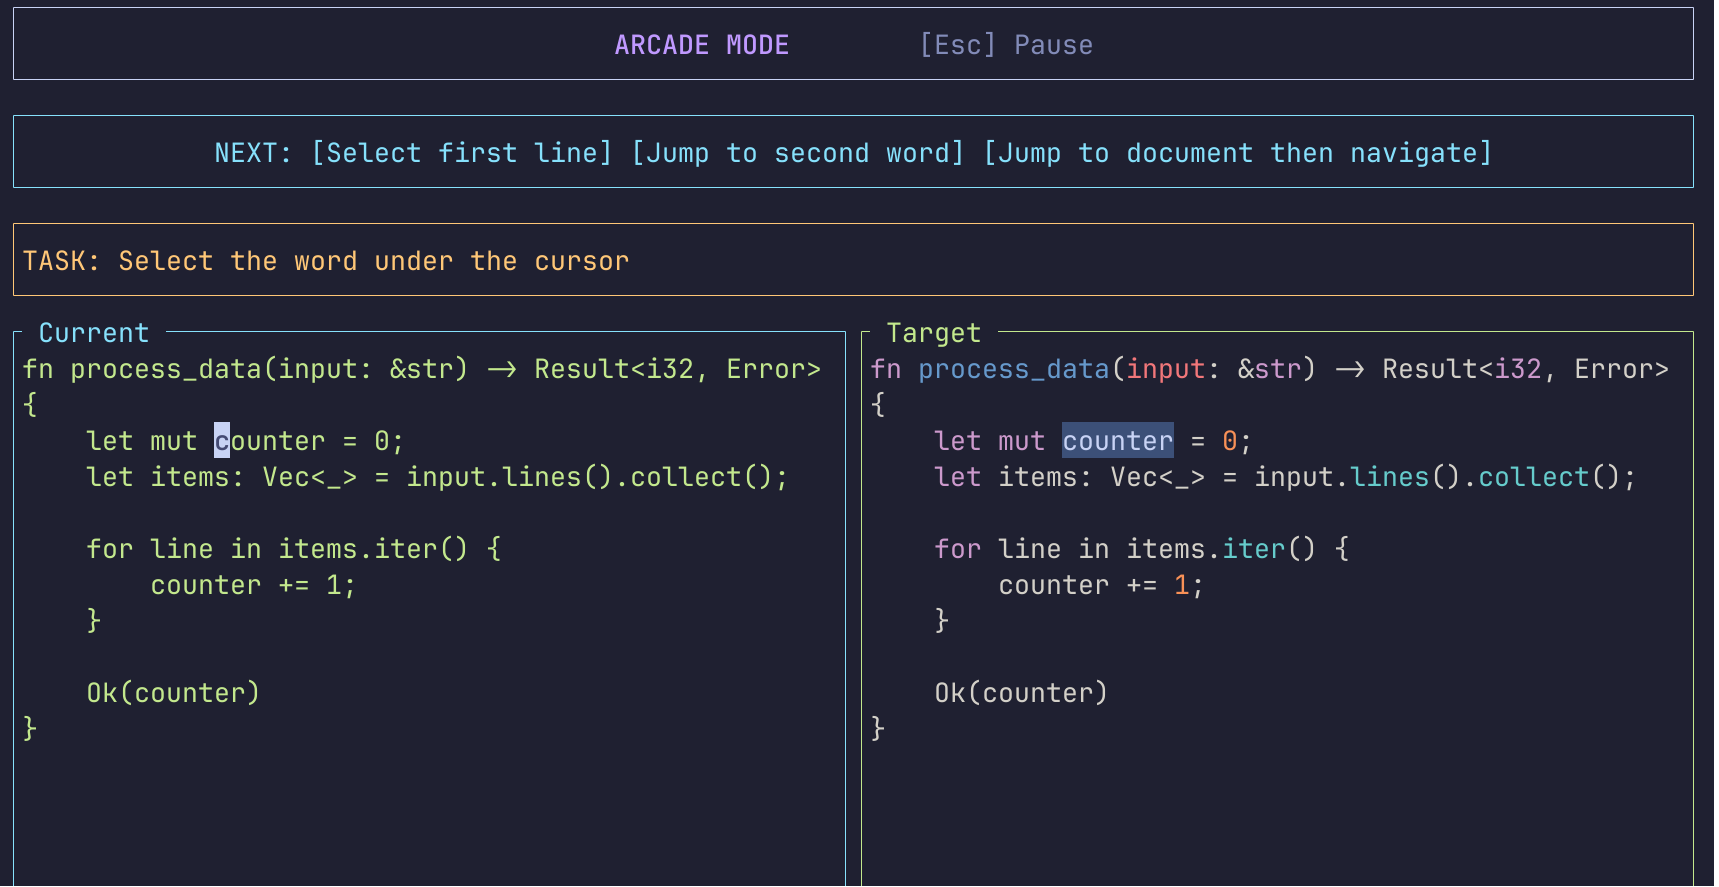
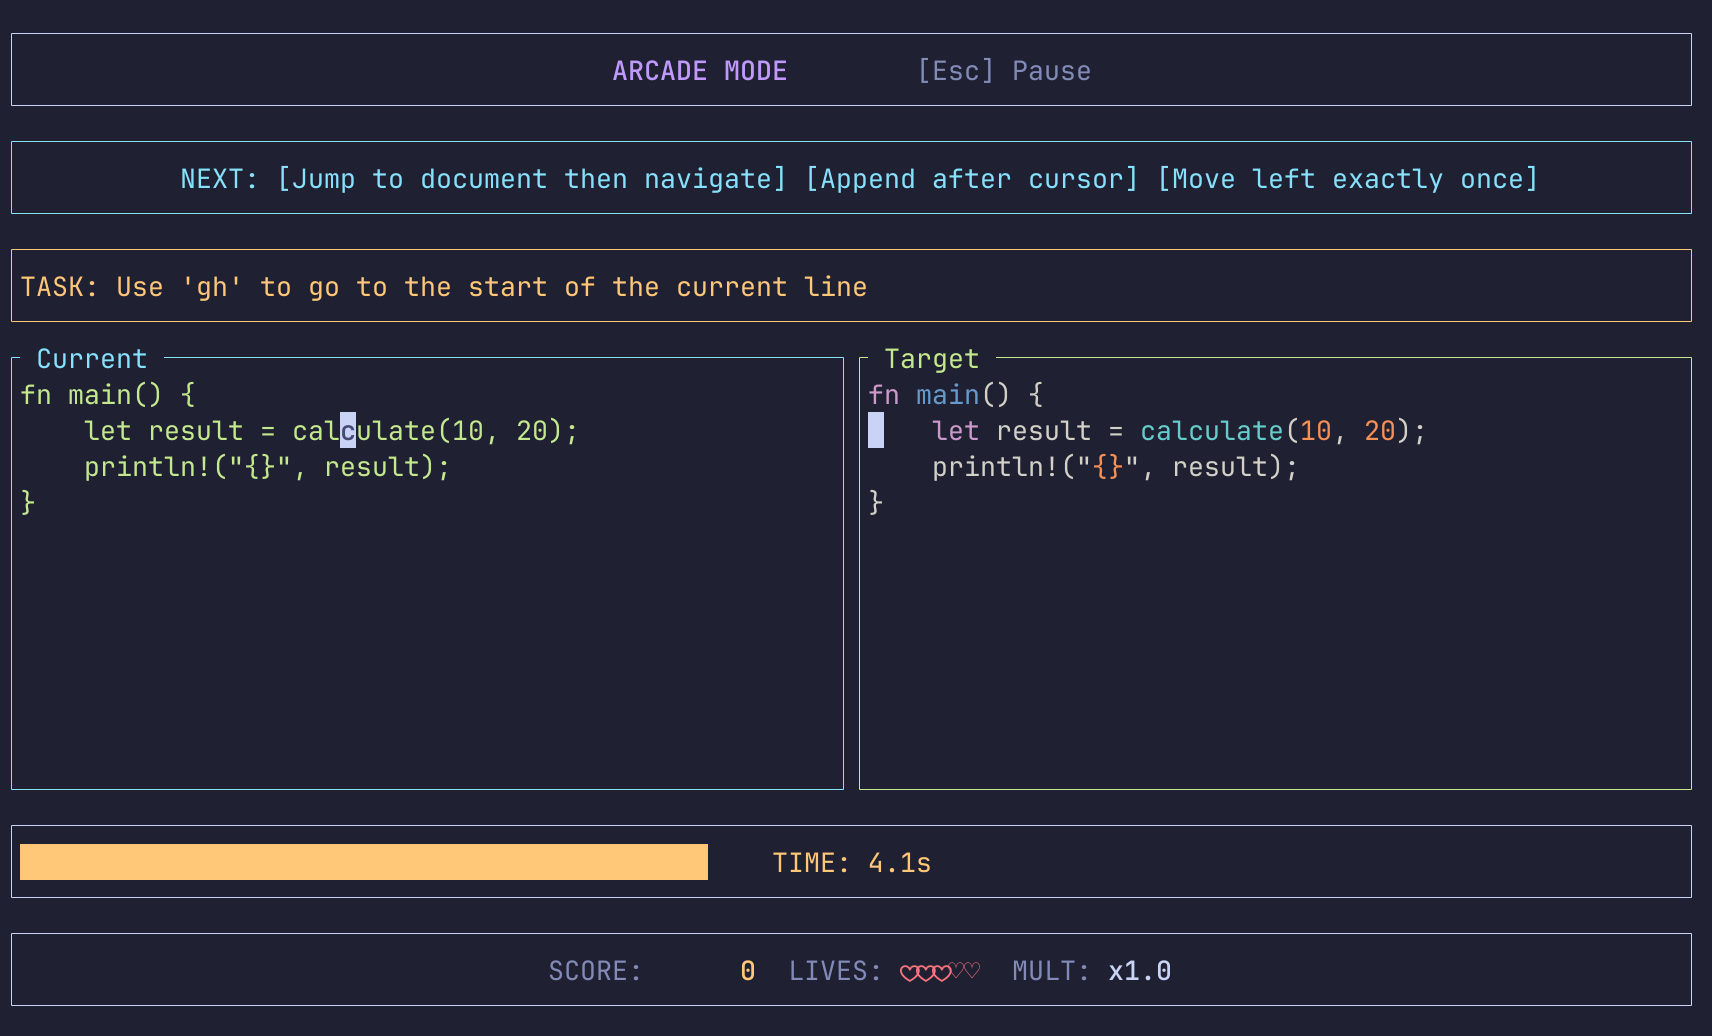
release: prepare v0.5.4 (#121)
- FSRS-based arcade scenario selection
- Real FSRS data in statistics screen
- Review session UX improvements
- Navigation shortcuts (m/Esc, r for review)
- Mastery level-up notifications
- Codebase architecture cleanup
- Updated screenshots (training-mode, statistics)

diff --git a/README.md b/README.md
@@ -11,7 +11,7 @@
 
 Stop learning commands in isolation. Train real development workflows with FSRS-powered spaced repetition (20-30% faster mastery), daily quests, XP progression, and anti-farming mechanics that ensure genuine skill development.
 
-<img src="assets/main-menu.png" width="600" alt="Main Menu">
+<img src="assets/training-mode.png" width="600" alt="Training Mode">
 
 > [!IMPORTANT]
 > **100% Offline & Privacy-First** — No internet required, no telemetry, no cloud sync. All data stays on your machine in `~/.config/helix-trainer/`
@@ -29,10 +29,13 @@ Stop learning commands in isolation. Train real development workflows with FSRS-
 
 <img src="assets/profile.png" width="600" alt="Player Profile">
 
+<img src="assets/statistics.png" width="600" alt="Statistics">
+
 ### Mini-Games Mode
 
 <img src="assets/arcade-mode.png" width="600" alt="Arcade Mode">
 
+- **FSRS-Powered Selection** — Prioritizes scenarios with commands you need to practice
 - **Arcade Training** — 60-second timed sessions with automatic scenario progression
 - **Streak Multiplier** — Build combos up to 5x for consecutive completions
 - **Lives System** — Start with 3 lives, earn bonus lives at score milestones
@@ -203,7 +206,7 @@ Duolingo-proven mechanics:
 ## Current Status
 
 > [!NOTE]
-> **Active Development**: Phase 2.2 complete! 136 scenarios with syntax highlighting, 1239+ passing tests, zero clippy warnings.
+> **Active Development**: Phase 2.2 complete! 136 scenarios with syntax highlighting, 1268 passing tests, 86% coverage.
 
 ### Completed
 
@@ -214,6 +217,7 @@ Duolingo-proven mechanics:
 | **Phase 2.1** | v0.4.1 | Arcade mode (60s sessions, lives, streak multiplier, XP integration) |
 | **Phase 4** | v0.5.0 | Typestate input system: surround commands (ms/mr/md), text objects (ma/mi) |
 | **Phase 2.2** | v0.5.3 | Adaptive difficulty, syntax highlighting, 136 scenarios with realistic Rust code |
+| **FSRS UX** | v0.5.4 | FSRS-based arcade selection, real statistics, review UX, codebase cleanup |
 
 ### 🔄 Phase 2.3: Mini-Games Polish (Planned)
 
@@ -323,6 +327,7 @@ Yes, Helix-specific. While many commands have similar names, Helix uses a differ
 | Phase 2.1 | ✅ | Mini-Games mode (arcade, lives, streaks) |
 | Typestate | ✅ | Input expansion (surround ms/mr/md, text objects ma/mi) |
 | Phase 2.2 | ✅ | Adaptive difficulty, syntax highlighting, realistic scenarios |
+| FSRS UX | ✅ | FSRS-based arcade, real statistics, review improvements |
 | Phase 2.3 | 📋 | Mini-Games polish (sound, leaderboards) |
 | Phase 3 | 📋 | Workflow simulator (LSP, git, multi-file) |
 | Phase 4 | 💡 | Network effects (multiplayer, scenarios marketplace) |

diff --git a/CHANGELOG.md b/CHANGELOG.md
@@ -7,6 +7,49 @@ and this project adheres to [Semantic Versioning](https://semver.org/spec/v2.0.0
 
 ## [Unreleased]
 
+## [0.5.4] - 2026-01-10
+
+### Added
+
+- **FSRS-based Arcade Mode** — Intelligent scenario selection prioritizes commands needing practice:
+  - Overdue commands increase scenario urgency
+  - Weak commands (low success rate) appear more often
+  - Novel commands get moderate priority for discovery
+  - Weighted random selection maintains variety
+
+- **Statistics Screen Improvements** — Real FSRS data integration:
+  - Command Mastery Distribution with progress bars
+  - Review Status showing due reviews and success rates
+  - Commands Needing Practice section (top 5 weak commands)
+  - Scenario Mastery distribution (Learning/Proficient/Mastered)
+
+- **Profile Screen Learning Progress** — New section showing FSRS learning metrics
+
+- **Review Session UX** — Improved review experience:
+  - Command descriptions from registry
+  - Session complete notifications with XP earned
+  - "No reviews due" informative message
+
+- **Mastery Level-Up Notifications** — Visual feedback when command mastery improves
+
+- **Navigation Shortcuts** — `m` and `Esc` keys navigate back to mode selection from scenario list
+
+- **Review Shortcut** — `r` key starts review session from all main screens
+
+### Changed
+
+- **Codebase Architecture** — Comprehensive refactoring:
+  - Split `input/typestate.rs` (2747 → ~400 lines max per file)
+  - Centralized test utilities in `src/testing/` module
+  - Split simulator tests into 8 organized modules
+  - Removed 21 dead code items
+
+### Quality
+
+- **Tests**: 1268 (up from 1239)
+- **Clippy**: Zero warnings
+- **Coverage**: 86%
+
 ## [0.5.3] - 2026-01-09
 
 ### Added
